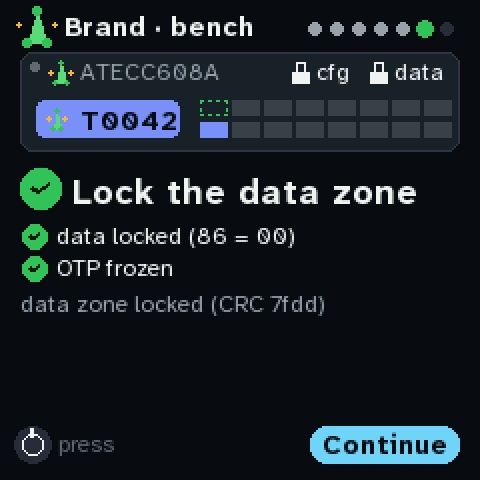
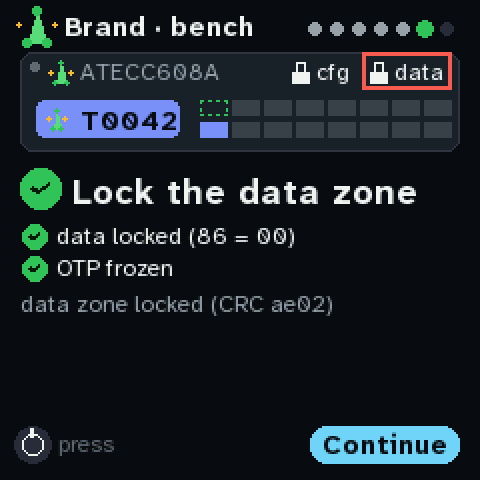
brand_ui: a result rings the part its step wrote, not the next step's
On Build 1 the B3 result ringed the OTP (B4's part); it rings cfg now.

Claude-Session: https://claude.ai/code/session_01PX6mRUeihEgRz4R4YfutoJ

Changed region(s): [[0.75, 0.0938, 0.9688, 0.1875], [0.5625, 0.5938, 0.7188, 0.6562]]

diff --git a/firmware/brand_ui.py b/firmware/brand_ui.py
@@ -230,7 +230,8 @@ class UI(P.UI):
         c = self.c
         st = c.step()
         why = self.need(st) if st not in c.FINAL else ""
-        self.d.frames(self._paint, st, why, chip_state(c, st), number(c), self._part())
+        # a result shows the chip with the part that step wrote ringed, not the next step's
+        self.d.frames(self._paint, st, why, chip_state(c, self.result[0] if self.result else st), number(c), self._part())
 
     def _part(self):
         return chipcfg.REVISIONS.get(self.c.revision, "ATECC608")

diff --git a/README.md b/README.md
@@ -184,7 +184,7 @@ console up to the README:
 |---|---|---|
[5 lines of base64/hex data omitted]
 
 <!-- build:end -->
